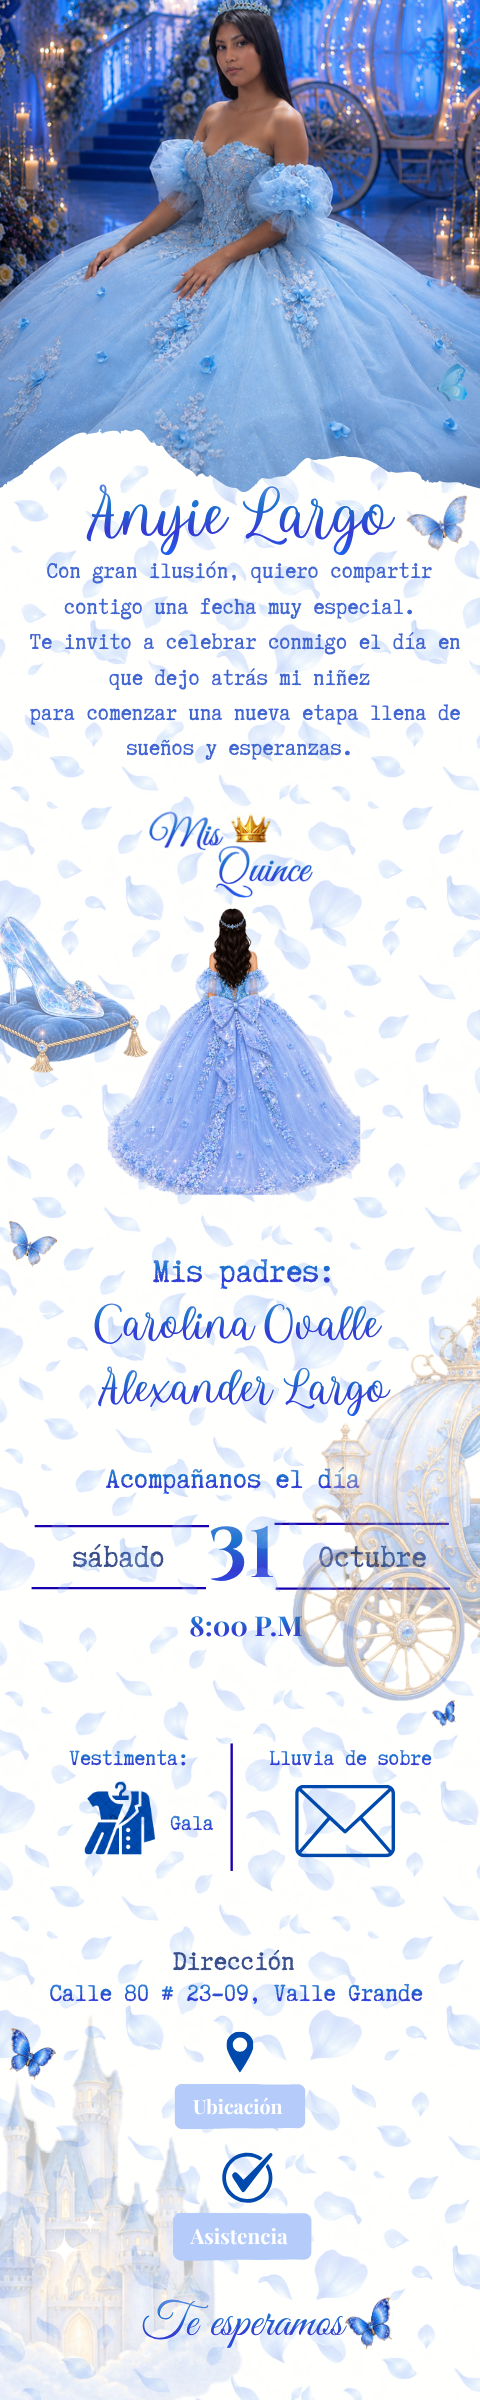
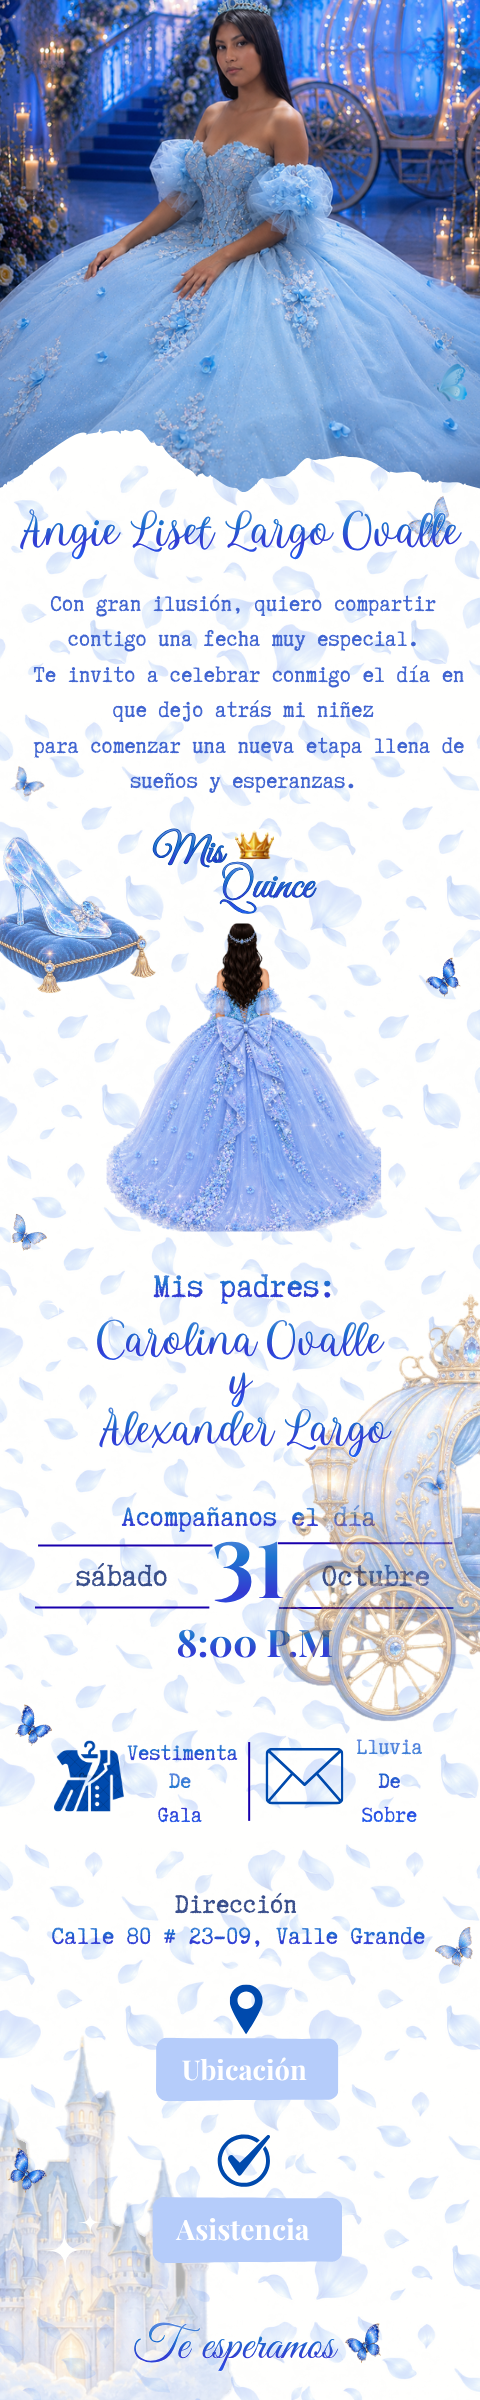
tarjeta final

diff --git a/js/script.js b/js/script.js
@@ -84,18 +84,18 @@ const imagenInvitacion = document.querySelector(".invitacion-imagen");
 const zonasClicables = [
     {
         nombre: "ubicacion",
-        top: 87.6,
-        left: 36.4,
-        width: 27.1,
-        height: 1.9,
+        top: 84.2,
+        left: 39,
+        width: 22,
+        height: 3.6,
         url: "https://maps.app.goo.gl/RxhTFU9EkgkWLBkCA"
     },
     {
         nombre: "confirmar",
-        top: 93.3,
-        left: 36.4,
-        width: 28.8,
-        height: 2,
+        top: 90.5,
+        left: 39,
+        width: 22,
+        height: 3.8,
         url: "https://w.app/13l6iv"
     }
 ];
